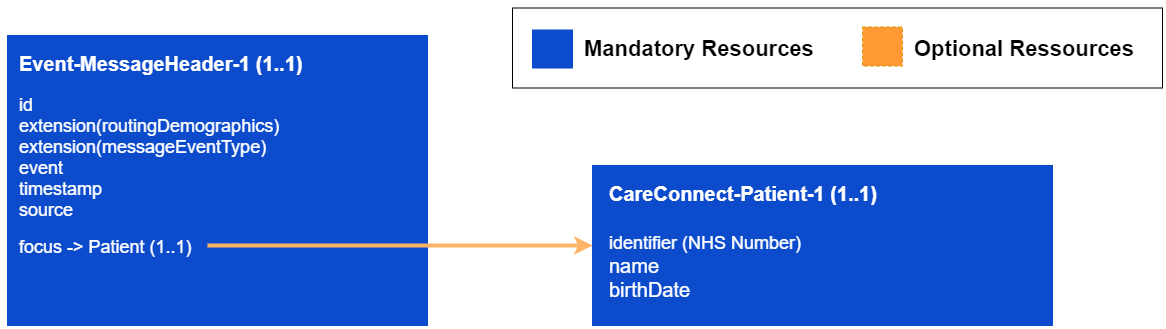
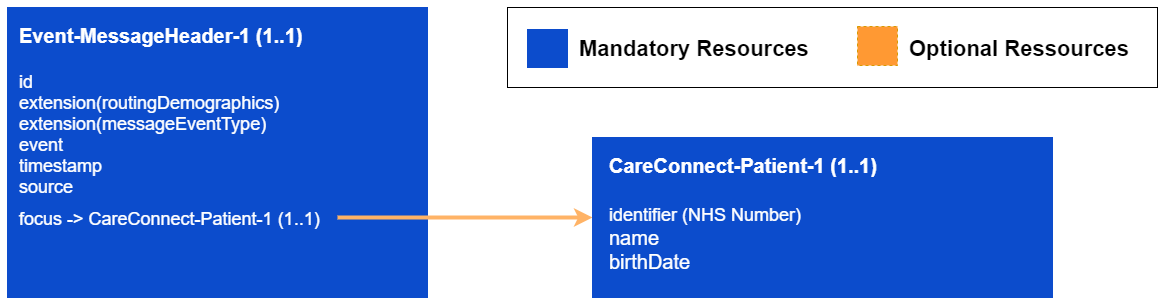
Updated PDS Record Change Example

diff --git a/pages/messages/messages/pds_record_change.md b/pages/messages/messages/pds_record_change.md
@@ -1,13 +1,13 @@
 ---
-title: PDS Record Change Notification
+title: PDS Record Change
 keywords:  messaging, bundles
 tags: [fhir,messaging]
 sidebar: overview_sidebar
 permalink: pds_record_change.html
-summary: "The PDS Record Change Notification event"
+summary: "The PDS Record Change event"
 ---
 
-The `PDS Record Change Notification` event message is generated and published by the Spine, when a change is made to a patient record within the Patient Demographics Service (PDS). The event message does not contain all the PDS information as the event message is only intended to be a notification that the reference patient record has changed, and allow the subscriber to perform their existing PDS synchronisation processes.
+The `PDS Record Change` event message is generated and published by the Spine, when a change is made to a patient record within the Patient Demographics Service (PDS). The event message does not contain all the PDS information as the event message is only intended to be a notification that the reference patient record has changed, and allow the subscriber to perform their existing PDS synchronisation processes.
 
 Any change to a patients PDS record will trigger the publication of this event, some example of changes that would trigger this event are:
 
@@ -22,8 +22,7 @@ Any change to a patients PDS record will trigger the publication of this event, 
 The following is the FHIR event message structure for the PDS Record Change event.
 
 <div style="text-align:center; margin-bottom:20px" >
-	<a href="images/messages/pds_change_bundle.png" target="_blank"><img src="images/messages/pds_change_bundle.png"></a>
-	<p>PDS Record Change Bundle <a href="images/messages/pds_change_bundle.png" target="_blank">(open in new TAB)</a></p>
+	<a href="images/messages/pds_record_change.png" target="_blank"><img src="images/messages/pds_record_change.png"></a>
 </div>
 
 
@@ -77,10 +76,10 @@ The following table outlines the key elements which will be included, but additi
 
 | Element | Cardinality | Additional Guidance |
 | --- | --- | --- |
-| meta.versionId | 0..1 | This element will contain the serial change number (SCN) of the patient's record within Spine at the time this event was published. |
-| identifier | 0..1 | The NHS Number of the patient will be included in the nhsNumber identifier slice. If the event message is the result of the PDS record being superseeded this will be the NHS Number of the record being superseded and not the record which is superseding it. |
-| name (official) | 0..1 | The patient's name as registered on PDS, included within the resource as the `official` name element slice |
-| birthDate | 0..1 | The patients date of birth. |
+| meta.versionId | 1..1 | This element will contain the serial change number (SCN) of the patient's record within Spine at the time this event was published. |
+| identifier | 1..1 | The NHS Number of the patient will be included in the nhsNumber identifier slice. If the event message is the result of the PDS record being superseeded this will be the NHS Number of the record being superseded and not the record which is superseding it. |
+| name (official) | 1..1 | The patient's name as registered on PDS, included within the resource as the `official` name element slice |
+| birthDate | 1..1 | The patients date of birth. |
 
 
 

diff --git a/pages/messages/overview_supported_events.md b/pages/messages/overview_supported_events.md
@@ -39,6 +39,6 @@ The following are event messages currently supported by the NEMS:
 | [PDS Change of Address](pds_change_of_address.html) | N/A | &#10060; | &#9989; | March 2019 | Release Candidate |
 | [PDS Change of GP](pds_change_of_gp.html) | N/A | &#10060; | &#9989; | March 2019 | Release Candidate |
 | [PDS Death Notification](pds_death_notification.html) | N/A | &#10060; | &#9989; | March 2019 | Release Candidate |
-| [PDS Record Change Notification](pds_record_change.html) | N/A | &#10060; | &#9989; | TBC | Beta |
+| [PDS Record Change](pds_record_change.html) | N/A | &#10060; | &#9989; | TBC | Beta |
 | [Professional Contacts](professional_contacts_1.html) | Professionalcontacts | &#9989; | &#9989; | February 2020 | Beta |
 | [Vaccinations](vaccinations_1.html) | Vaccinations | &#9989; | &#9989; | February 2020 | Beta |

diff --git a/pages/overview/overview_release_notes.md b/pages/overview/overview_release_notes.md
@@ -12,6 +12,9 @@ summary: Summary release notes of the versions released in National Events Manag
 [Generic Event Message Requirements](explore_generic_event_requirements.html)
 - Added additional guidance around element order within FHIR resources and conformance to schemas.
 
+[PDS Record Change](pds_record_change.html)
+- Added PDS Record Change event
+
 ## 2.7.3 (22/02/2021) ##
 
 - Removal of Beta status from project
@@ -33,9 +36,6 @@ summary: Summary release notes of the versions released in National Events Manag
 
 [Supported Event Messages](overview_supported_events.html)
 - Changed the status of the "Professional Contacts" and "Vaccinations" events to release candidate from beta
-
-[PDS Record Change](pds_record_change.html)
-- Added PDS Record Change event
 
 
 ## 2.7.0-Beta (17/09/2020) ##
